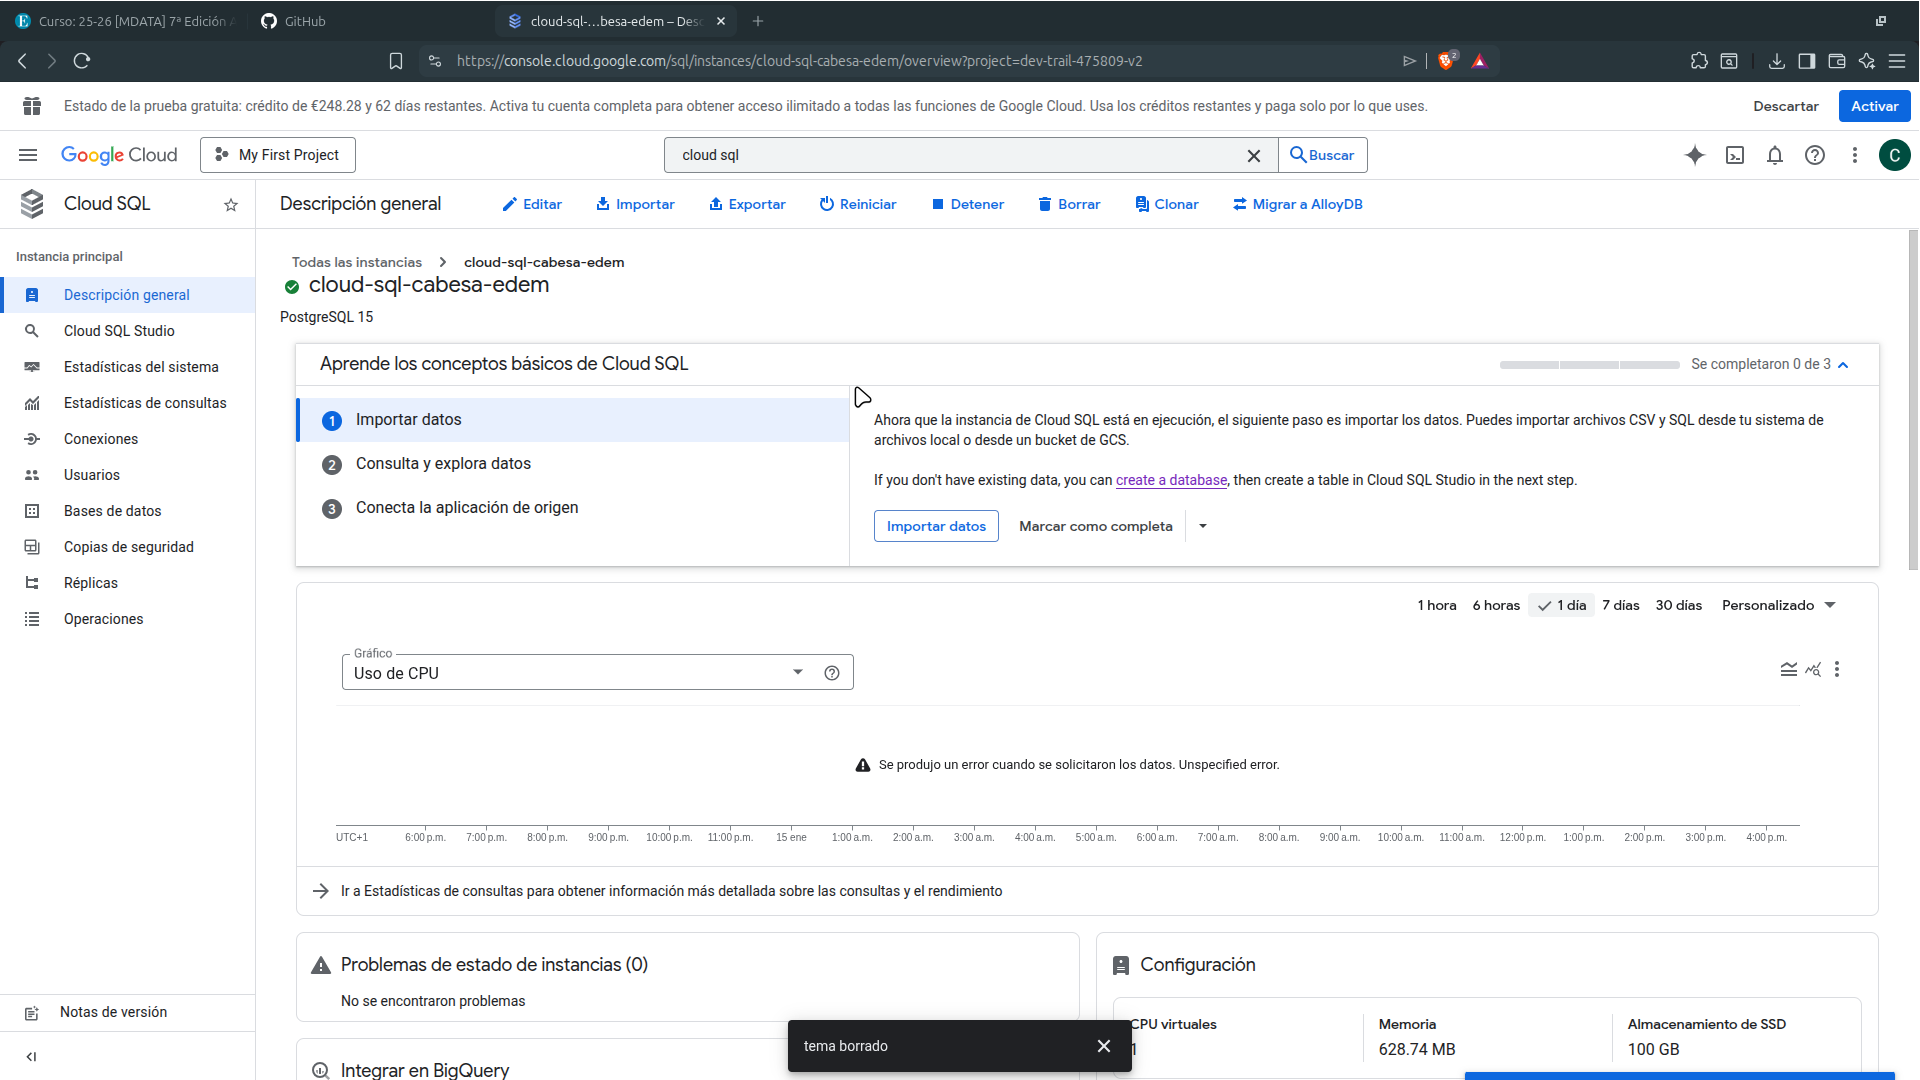
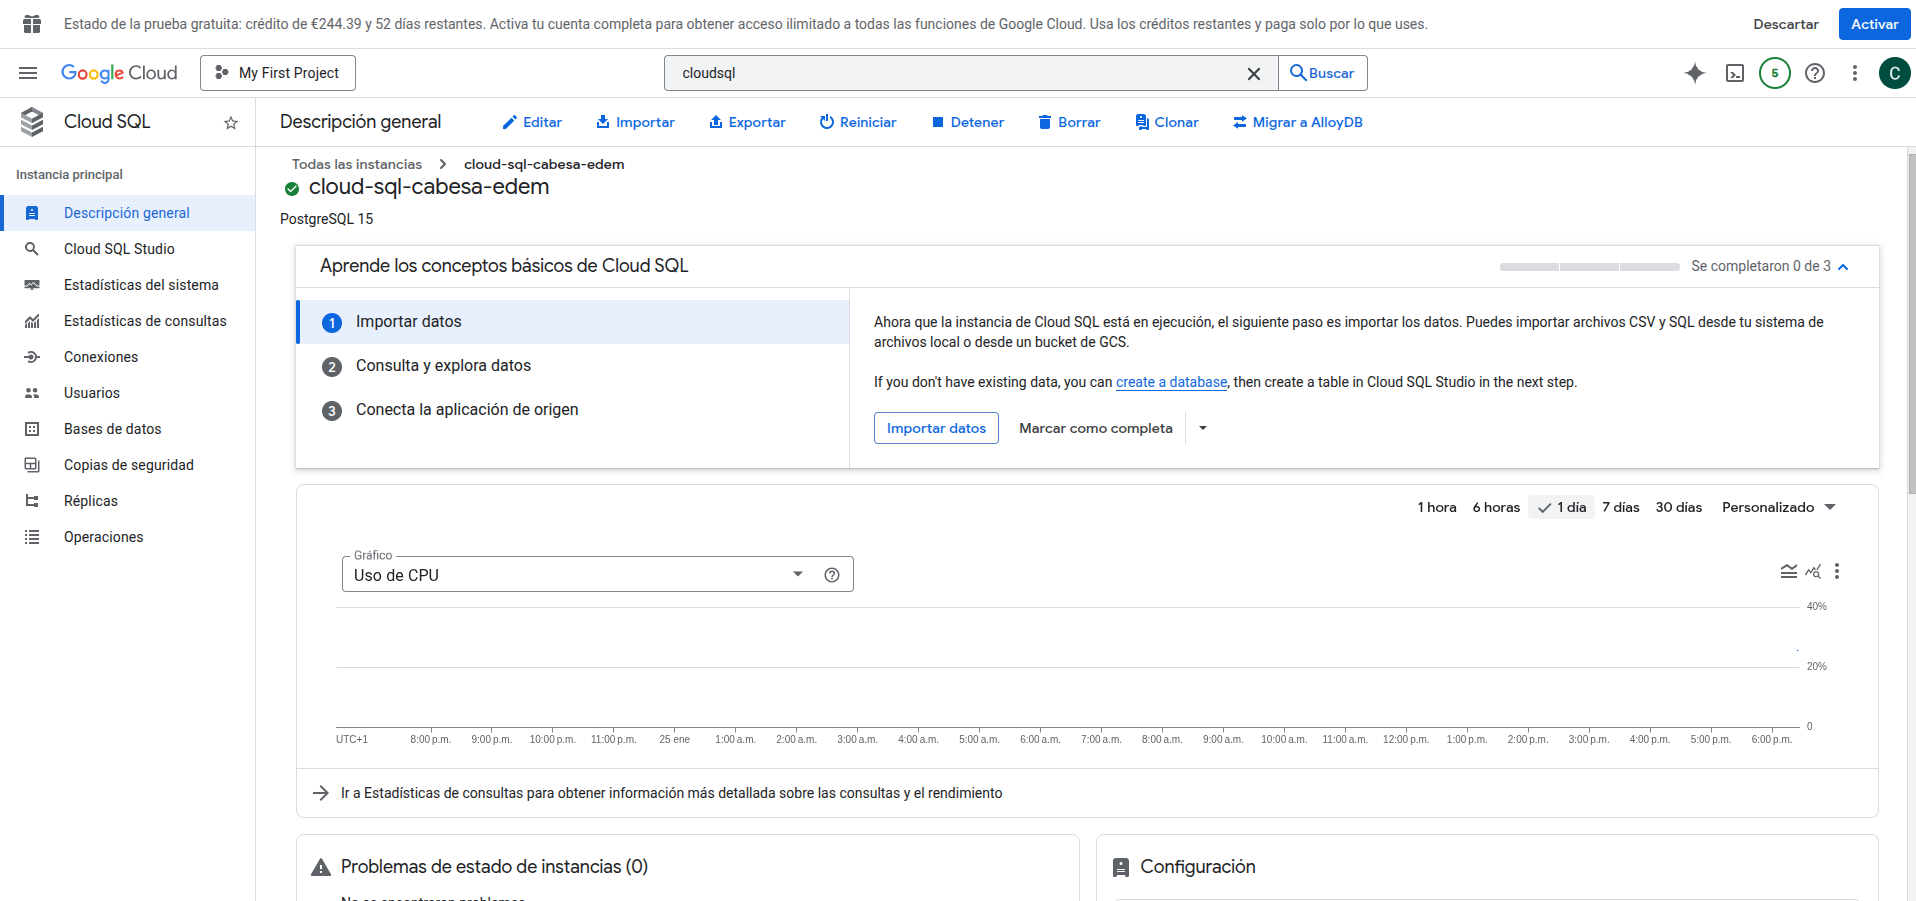
Entregable GCP ALMACENAMIENTO Carlos Beltran
Entregable GCP ALMACENAMIENTO Carlos Beltran

diff --git a/ALUMNOS/MDAA/CARLOS_BELTRAN/GCP_ALMACENAMIENTO/Entregable.md b/ALUMNOS/MDAA/CARLOS_BELTRAN/GCP_ALMACENAMIENTO/Entregable.md
@@ -1,42 +1,119 @@
 # Entregable End2End GCP Almacenamiento. Carlos Beltrán
 
-Se parte de la siguiente imagen para la infraestructura. 
+Se parte de la siguiente imagen para la infraestructura.
 
 <p align="center">
 <img src=".images/arquitectura.png" alt="drawing" width="500"/>
 </p>
 
+## SETUP
 
 Se ha utilizado Terraform para el despliegue de los recursos y se han utilizado:
 
-- Dos maquinas virtuales
+- 1 service account creada desde la cong¡sola de GCP
+
+- 2 maquinas virtuales
 
 <p align="center">
 <img src=".imagenes_entrega/maquinas_virtuales.png" alt="drawing" width="500"/>
 </p>
 
-- Dos tópicos con sus suscripciones
+- 3 tópicos con sus suscripciones
 
 <p align="center">
-<img src=".imagenes_entrega/topicos.png" alt="drawing" width="500"/>
+<img src=".imagenes_entrega/pubsub.png" alt="drawing" width="500"/>
 </p>
 
-- Una instancia de Cloud SQL
+- 1 instancia de Cloud SQL
 
 <p align="center">
 <img src=".imagenes_entrega/cloud_sql.png" alt="drawing" width="500"/>
 </p>
 
-- Dos datasets, delivery_bronze y orders_bronze
+- 2 datasets, delivery_bronze y orders_bronze
 
 <p align="center">
 <img src=".imagenes_entrega/dataset.png" alt="drawing" width="500"/>
 </p>
 
-- Un subtópico en el topico de delivery para publicar en BigQuery
+- 1 bucket de cloud storage par el data lake
 
 <p align="center">
-<img src=".imagenes_entrega/delivery_subtopic.png" alt="drawing" width="500"/>
+<img src=".imagenes_entrega/bucket_data_lake.png" alt="drawing" width="500"/>
 </p>
 
+- Las sentencias sql para crear las tablas de dbt se ejecutan en el archivo main.tf
 
+<p align="center">
+<img src=".imagenes_entrega/dbt.png" alt="drawing" width="500"/>
+</p>
+
+## Envio de datos
+
+Se han enviado datos a través de la maquina virtual de orders-app
+
+<p align="center">
+<img src=".imagenes_entrega/orders_send_data.png" alt="drawing" width="500"/>
+</p>
+
+y delivery-app
+
+<p align="center">
+<img src=".imagenes_entrega/delivery_send_data.png" alt="drawing" width="500"/>
+</p>
+
+Los datos que se envian se guardan en la base de datos de Cloud SQL
+
+<p align="center">
+<img src=".imagenes_entrega/cloud_sql_inserts.png" alt="drawing" width="500"/>
+</p>
+
+Los datos que se envian se guardan tambien en el bucket del data lake
+
+<p align="center">
+<img src=".imagenes_entrega/bucket_parquet.png" alt="drawing" width="500"/>
+</p>
+
+Los datos que se envian se pueden ver como llegan a los topicos de pubsub
+
+<p align="center">
+<img src=".imagenes_entrega/pubsub_messages.png" alt="drawing" width="500"/>
+</p>
+
+De manera local, se transforman los registros para dbt y poder verlos en BigQuery
+
+<p align="center">
+<img src=".imagenes_entrega/big_query_transform.png" alt="drawing" width="500"/>
+</p>
+
+Si vamos a BigQuery, podemos ver los datos transformados
+
+<p align="center">
+<img src=".imagenes_entrega/big_query_inserted.png" alt="drawing" width="500"/>
+</p>
+
+## Metabase
+
+Una vez tenemos el contenedor de metabase y creamos nuestra cuenta tenemos acceso a la pagina principal
+
+<p align="center">
+<img src=".imagenes_entrega/metabase_main.png" alt="drawing" width="500"/>
+</p>
+
+Tenemos que añadir la base de datos de BigQuery, para ello, primero es necesario ir al servicio de Service account de la consola de Google, elegir la service account que se ha creado en el terraform y crear una clave
+
+<p align="center">
+<img src=".imagenes_entrega/metabase_added_db.png" alt="drawing" width="500" >
+</p>
+
+En la pantalla principal podemos añadir nuevas "preguntas" a BigQuery, por ejemplo de la tabla orders_bronze podemos ver las ordenes
+
+<p align="center">
+<img src=".imagenes_entrega/metabase_orders.png" alt="drawing" width="500" >
+</p>
+
+Podemos hacer varias "preguntas" o consultas a BigQuery para crear un dashboard
+
+<p align="center">
+<img src=".imagenes_entrega/metabase_dashboard.png" alt="drawing" width="500" >
+</p>
